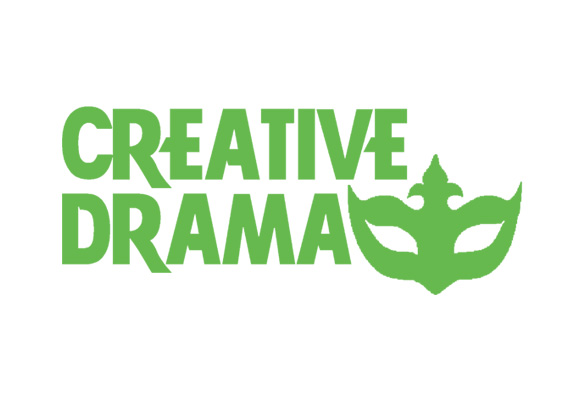
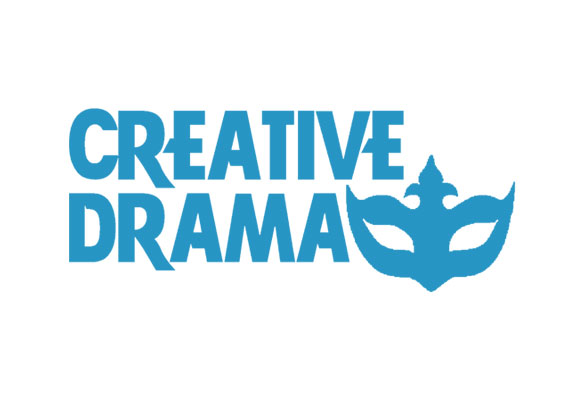
updated cards

Changed region(s): [[0.0923, 0.27, 0.8923, 0.75]]

diff --git a/src/index.html b/src/index.html
@@ -173,7 +173,7 @@
     </div>
   </section>
 
-  <h2 class="is-size-2 has-text-centered section-heading">Events @ Earlybirds</h2>
+  <h2 class="is-size-2 has-text-centered section-heading">Events at Earlybirds</h2>
   <section class="section about">
     <div class="container">
       <div class="columns">
@@ -184,7 +184,7 @@
           <p>Lorem ipsum dolor sit amet consectetur adipisicing elit. Soluta officiis labore deserunt temporibus, velit fugiat
             at architecto accusantium molestiae consequatur minus? Neque quasi ex dolorum delectus non voluptatibus eos enim?</p>
           <br>
-          <a href="#" class="body-text-link">Get tickets now</a>
+          <a href="#" class="body-text-link">Learn more</a>
         </div>
         <div class="column">
           <figure class="wow fadeIn section-img" data-wow-delay=".3s">

diff --git a/src/scss/styles.scss b/src/scss/styles.scss
@@ -14,10 +14,10 @@ body {
 }
 
 a {
-  color: #000;
+  color: #222;
   transition: all 0.2s ease;
   &:hover {
-    color: #686868 !important;
+    color: #2795c4 !important;
   }
 }
 
@@ -122,6 +122,7 @@ img {
 }
 
 .section-heading {
+  // font-family: 'Oswald', sans-serif;
   font-weight: 200;
   font-style: italic;
   letter-spacing: -0.01em;

diff --git a/src/css/styles.css b/src/css/styles.css
@@ -2515,10 +2515,10 @@ body {
   color: #222; }
 
 a {
-  color: #000;
+  color: #222;
   transition: all 0.2s ease; }
   a:hover {
-    color: #686868 !important; }
+    color: #2795c4 !important; }
 
 figure {
   -webkit-filter: grayscale(0.2); }
